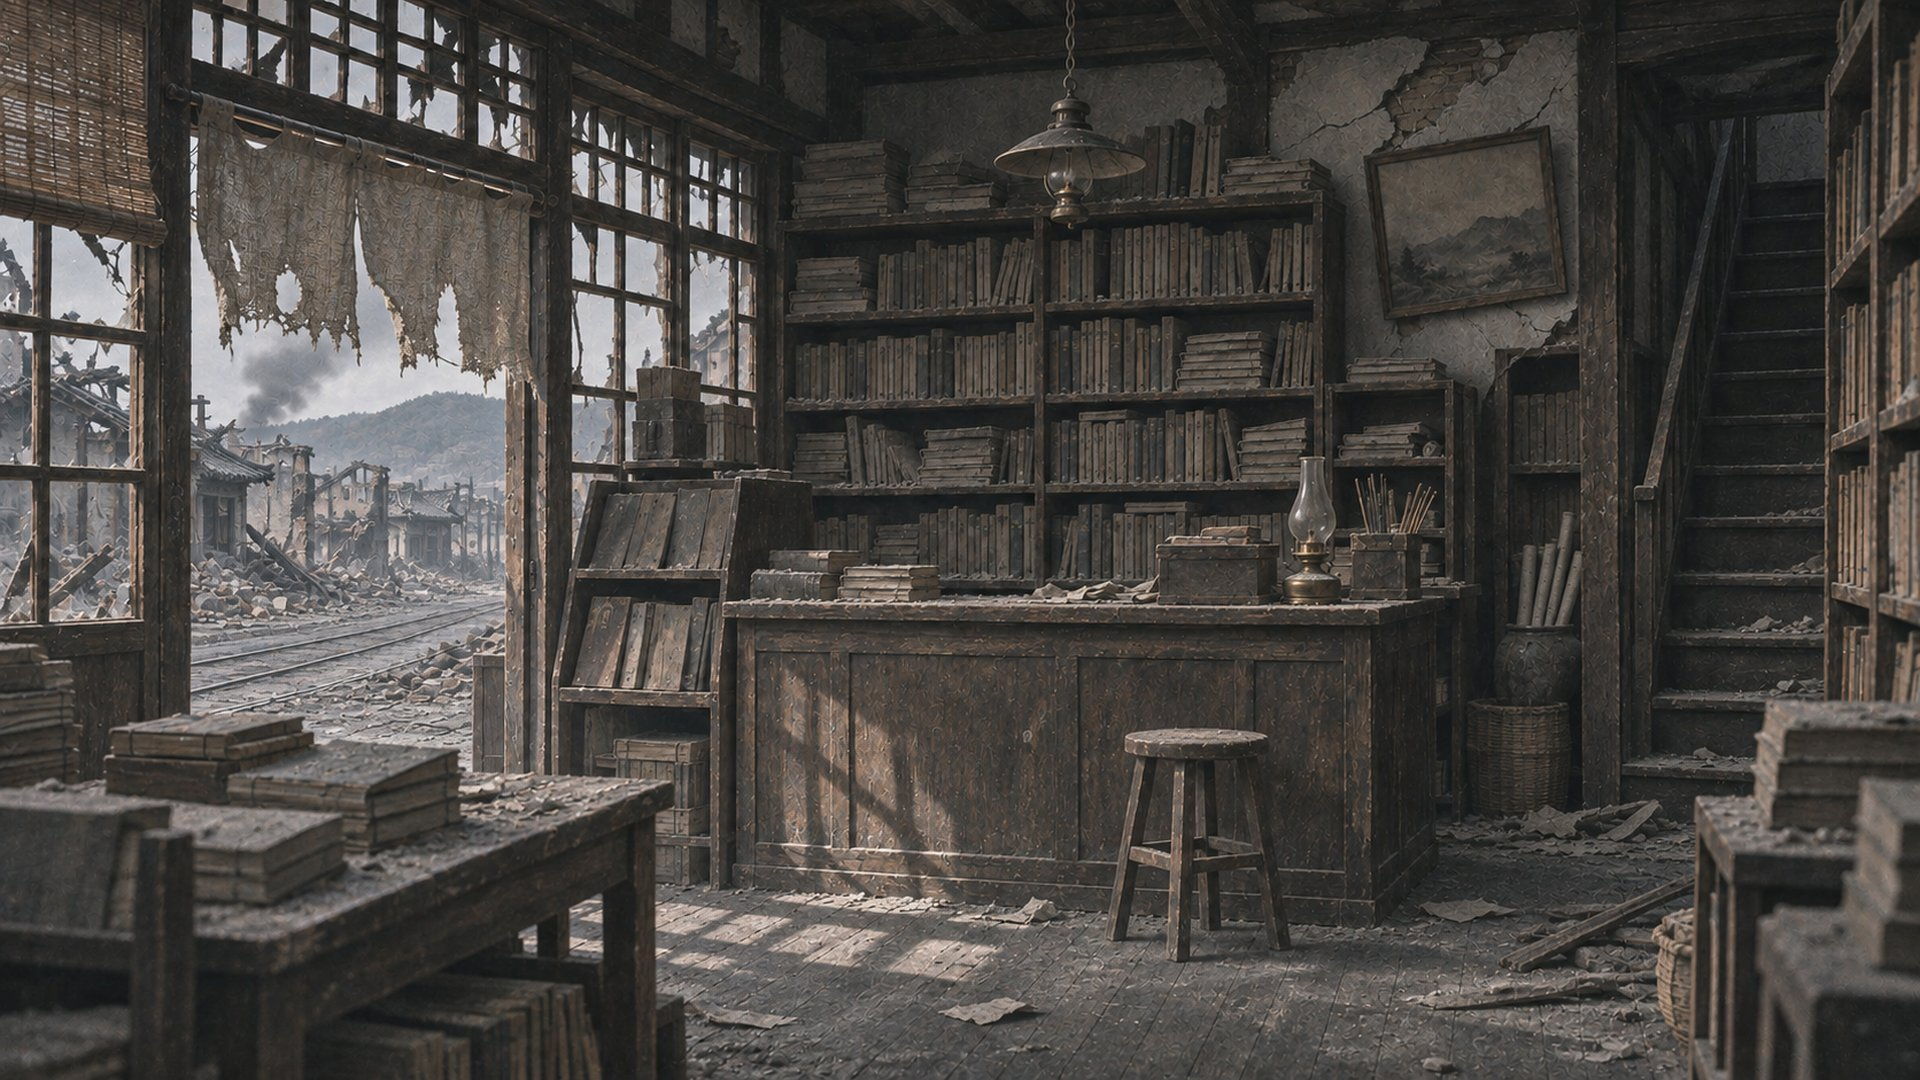
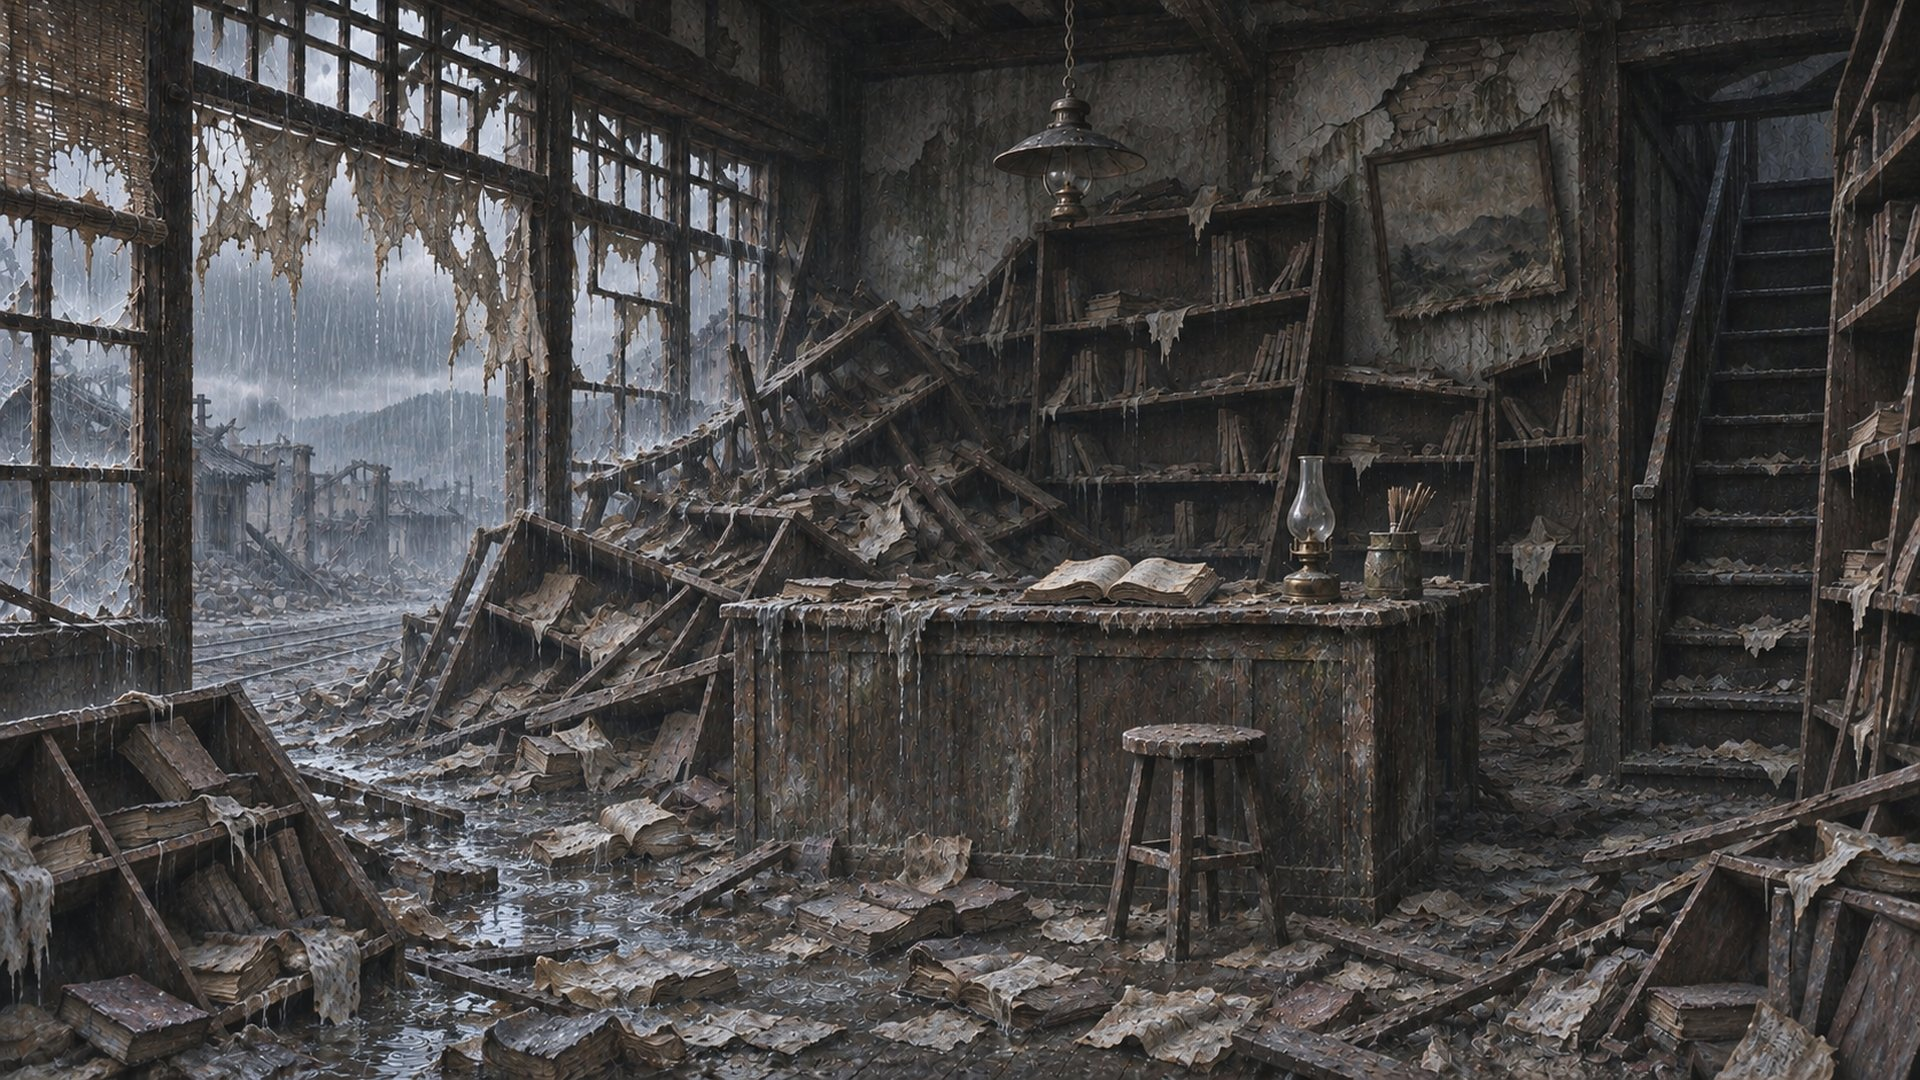
美术阶段4：完成67组地点，累计新增152张场景

diff --git a/assets/README.md b/assets/README.md
@@ -5,8 +5,8 @@
 
 ## 总体规范
 
-- **场景背景**（`assets/bg/`，151/153 已就位）：16:9 场景图，JPG，1920×1080，质量 85 左右，单张不超过 600KB。 历史题材写实插画。故事主体发生在 1939–1949 年的朝鲜京城（今首尔），少数场景在日本、平壤或战后年代，以下面的场景描述为准。低饱和、偏冷的色调，轻微胶片颗粒，构图像 1940 年代的新闻照片或电影剧照。画面中不要出现可读文字、水印或现代物品；人物如需出现只作远景剪影，不画清晰面孔。
-- **事件插图**（`assets/cg/`，0/1 已就位）：16:9 事件插图，JPG，1920×1080。 与背景同一画风的事件插图，可以有人物，但人物外貌须遵守角色设定。
+- **场景背景**（`assets/bg/`，153/153 已就位）：16:9 场景图，JPG，1920×1080，质量 85 左右，单张不超过 600KB。 历史题材写实插画。故事主体发生在 1939–1949 年的朝鲜京城（今首尔），少数场景在日本、平壤或战后年代，以下面的场景描述为准。低饱和、偏冷的色调，轻微胶片颗粒，构图像 1940 年代的新闻照片或电影剧照。画面中不要出现可读文字、水印或现代物品；人物如需出现只作远景剪影，不画清晰面孔。
+- **事件插图**（`assets/cg/`，1/1 已就位）：16:9 事件插图，JPG，1920×1080。 与背景同一画风的事件插图，可以有人物，但人物外貌须遵守角色设定。
 - **人物立绘**（`assets/char/`，92/92 已就位）：半身立绘（腰部以上），透明背景 PNG，1024×1536，人物居中，头顶留约 8% 空白。游戏里会把它裁成圆形头像（取上方 40%），所以脸要在画面上部三分之一处。 与背景统一的写实插画风，统一左上方光源。同一人物的所有表情、服装必须保持脸型、五官、发型和年龄一致：先生成「常态」，再以它为参考生成其他表情。
 - **配乐**（`assets/bgm/`，0/26 已就位）：MP3，128–192kbps，立体声。可无缝循环，长度 60–150 秒；首尾音量一致以便循环。 原创配乐，不要使用或模仿任何已有曲目的旋律。
 - **音效**（`assets/sfx/`，0/49 已就位）：MP3，单声道即可，0.5–4 秒，开头不留空白，结尾自然衰减。 写实音效，1940 年代环境（没有现代电子声）。
@@ -202,14 +202,14 @@
 | ✅ `assets/bg/钟路警察署_院子_白天.jpg` | 32 | 场景：钟路警察署：灰色水泥建筑，阴暗走廊，审讯用的地下室、拘留所；院子，白天。 |
 | ✅ `assets/bg/铁桥下_黎明.jpg` | 37 | 场景：汉江铁桥下的河滩；黎明。 |
 | ✅ `assets/bg/青丘书房_废墟.jpg` | 56 | 场景：钟路后巷一间窄小的旧书店，门口挂着半截布帘，屋里堆满旧书；废墟。 |
-| `assets/bg/首尔_国家报勋处_窗口.jpg` | 80 | 场景：2005 年的首尔，政府机关的办事窗口；国家报勋处，窗口。 |
-| `assets/bg/麻浦渡口_夜.jpg` | 64 | 场景：麻浦渡口，木船与码头；夜晚。 |
+| ✅ `assets/bg/首尔_国家报勋处_窗口.jpg` | 80 | 场景：2005 年的首尔，政府机关的办事窗口；国家报勋处，窗口。 |
+| ✅ `assets/bg/麻浦渡口_夜.jpg` | 64 | 场景：麻浦渡口，木船与码头；夜晚。 |
 
 ## 事件插图
 
 | 文件 | 用到的话 | 描述 |
 |---|---|---|
-| `assets/cg/改画的太极旗.jpg` | 60 | 场景：解放那天，用日之丸改画成的太极旗挂在窗口。 |
+| ✅ `assets/cg/改画的太极旗.jpg` | 60 | 场景：解放那天，用日之丸改画成的太极旗挂在窗口。 |
 
 ## 人物立绘
 
